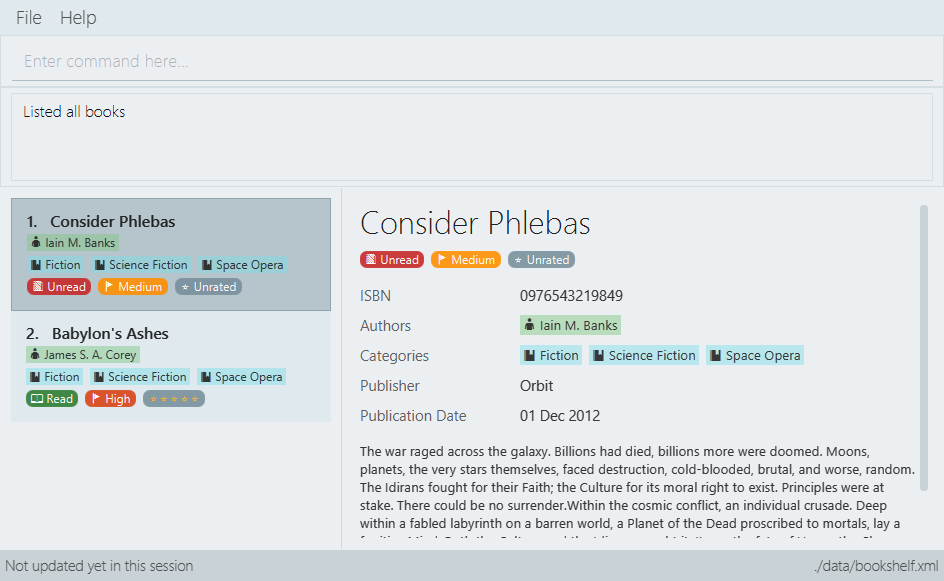
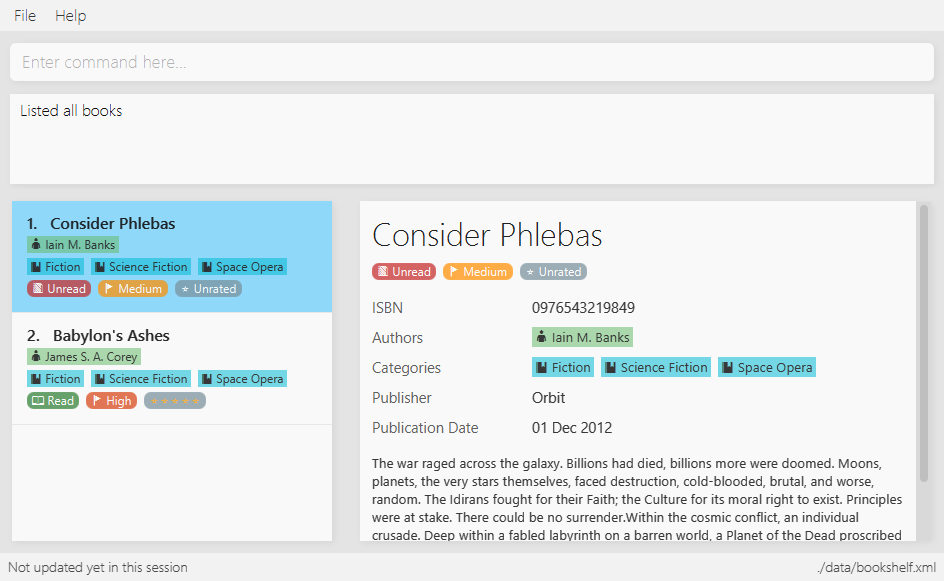
Rebuild pages at 4656d4637e82136c6475ff83124d207bad837bcf

diff --git a/UserGuide.html b/UserGuide.html
@@ -41,11 +41,12 @@
 <li><a href="#listing-entered-commands-code-history-code">3.13. Listing entered commands : <code>history</code></a></li>
 <li><a href="#undoing-previous-command-code-undo-code">3.14. Undoing previous command : <code>undo</code></a></li>
 <li><a href="#clearing-all-entries-code-clear-code">3.15. Clearing all entries : <code>clear</code></a></li>
-<li><a href="#changing-settings-code-settings-code-code-coming-in-v1-4-code">3.16. Changing settings: <code>settings</code> <code>[coming in v1.4]</code></a></li>
-<li><a href="#closing-the-program-code-exit-code">3.17. Closing the program : <code>exit</code></a></li>
-<li><a href="#saving-the-data">3.18. Saving the data</a></li>
-<li><a href="#getting-book-recommendations-code-suggest-code-code-coming-in-v2-0-code">3.19. Getting book recommendations: <code>suggest</code> <code>[coming in v2.0]</code></a></li>
-<li><a href="#importing-books-from-other-e-readers-code-import-code-code-coming-in-v2-0-code">3.20. Importing books from other E-Readers: <code>import</code> <code>[coming in v2.0]</code></a></li>
+<li><a href="#changing-application-theme-code-since-v1-2-code">3.16. Changing application theme <code>[since v1.2]</code></a></li>
+<li><a href="#changing-settings-code-settings-code-code-coming-in-v1-4-code">3.17. Changing settings: <code>settings</code> <code>[coming in v1.4]</code></a></li>
+<li><a href="#closing-the-program-code-exit-code">3.18. Closing the program : <code>exit</code></a></li>
+<li><a href="#saving-the-data">3.19. Saving the data</a></li>
+<li><a href="#getting-book-recommendations-code-suggest-code-code-coming-in-v2-0-code">3.20. Getting book recommendations: <code>suggest</code> <code>[coming in v2.0]</code></a></li>
+<li><a href="#importing-books-from-other-e-readers-code-import-code-code-coming-in-v2-0-code">3.21. Importing books from other E-Readers: <code>import</code> <code>[coming in v2.0]</code></a></li>
 </ul>
 </li>
 <li><a href="#faq">4. FAQ</a></li>
@@ -822,9 +823,30 @@ Format: <code>clear</code></p>
 </div>
 </div>
 <div class="sect2">
-<h3 id="changing-settings-code-settings-code-code-coming-in-v1-4-code"><a class="anchor" href="#changing-settings-code-settings-code-code-coming-in-v1-4-code"></a>3.16. Changing settings: <code>settings</code> <code>[coming in v1.4]</code></h3>
+<h3 id="changing-application-theme-code-since-v1-2-code"><a class="anchor" href="#changing-application-theme-code-since-v1-2-code"></a>3.16. Changing application theme <code>[since v1.2]</code></h3>
+<div class="paragraph">
+<p>If you don&#8217;t like the default theme used by Bibliotek, you can change it using <code>theme</code>.<br>
+Format: <code>theme THEME_NAME</code></p>
+</div>
+<div class="sidebarblock">
+<div class="content">
+<div class="ulist">
+<ul>
+<li>
+<p><code>THEME_NAME</code> must specify a valid theme, and is case-insensitive.</p>
+</li>
+<li>
+<p>The current available themes are: <code>white</code>, <code>light</code>, and <code>dark</code>.</p>
+</li>
+</ul>
+</div>
+</div>
+</div>
+</div>
+<div class="sect2">
+<h3 id="changing-settings-code-settings-code-code-coming-in-v1-4-code"><a class="anchor" href="#changing-settings-code-settings-code-code-coming-in-v1-4-code"></a>3.17. Changing settings: <code>settings</code> <code>[coming in v1.4]</code></h3>
 <div class="sect3">
-<h4 id="settings-library"><a class="anchor" href="#settings-library"></a>3.16.1. Library <code>[coming in v1.4]</code></h4>
+<h4 id="settings-library"><a class="anchor" href="#settings-library"></a>3.17.1. Library <code>[coming in v1.4]</code></h4>
 <div class="paragraph">
 <p>If you want to search for books in other libraries, you can change your settings.<br>
 Format: <code>settings lib/LIBRARY</code></p>
@@ -860,7 +882,7 @@ if there are other libraries you wish are supported.</p>
 </div>
 </div>
 <div class="sect3">
-<h4 id="settings-order"><a class="anchor" href="#settings-order"></a>3.16.2. Online shopping site <code>[coming in v1.5]</code></h4>
+<h4 id="settings-order"><a class="anchor" href="#settings-order"></a>3.17.2. Online shopping site <code>[coming in v1.5]</code></h4>
 <div class="paragraph">
 <p>If you want to purchase books on other online booksellers, you can change your settings.<br>
 Format: <code>settings order/SITE</code></p>
@@ -896,7 +918,7 @@ if there are other sites you wish are supported.</p>
 </div>
 </div>
 <div class="sect3">
-<h4 id="command-alias-code-coming-in-v1-5-code"><a class="anchor" href="#command-alias-code-coming-in-v1-5-code"></a>3.16.3. Command alias <code>[coming in v1.5]</code></h4>
+<h4 id="command-alias-code-coming-in-v1-5-code"><a class="anchor" href="#command-alias-code-coming-in-v1-5-code"></a>3.17.3. Command alias <code>[coming in v1.5]</code></h4>
 <div class="paragraph">
 <p>If you don&#8217;t like the word for a command or think it is too long, you can add a
 command alias to make the command more intuitive or reduce typing.<br>
@@ -948,15 +970,7 @@ Remove the command alias of <code>add</code>.</p>
 </div>
 </div>
 <div class="sect3">
-<h4 id="theme-code-coming-in-v2-0-code"><a class="anchor" href="#theme-code-coming-in-v2-0-code"></a>3.16.4. Theme <code>[coming in v2.0]</code></h4>
-<div class="paragraph">
-<p>Don&#8217;t like the default theme of the application? You can choose from the various
-themes that Bibliotek provides.<br>
-Format: <code>settings theme/THEME</code></p>
-</div>
-</div>
-<div class="sect3">
-<h4 id="font-size-code-coming-in-v2-0-code"><a class="anchor" href="#font-size-code-coming-in-v2-0-code"></a>3.16.5. Font size <code>[coming in v2.0]</code></h4>
+<h4 id="font-size-code-coming-in-v2-0-code"><a class="anchor" href="#font-size-code-coming-in-v2-0-code"></a>3.17.4. Font size <code>[coming in v2.0]</code></h4>
 <div class="paragraph">
 <p>Think the font size is too small or large for your liking? You can customize the
 font size to your own needs.<br>
@@ -964,7 +978,7 @@ Format: <code>settings fontsize/FONTSIZE</code></p>
 </div>
 </div>
 <div class="sect3">
-<h4 id="password-code-coming-in-v2-0-code"><a class="anchor" href="#password-code-coming-in-v2-0-code"></a>3.16.6. Password <code>[coming in v2.0]</code></h4>
+<h4 id="password-code-coming-in-v2-0-code"><a class="anchor" href="#password-code-coming-in-v2-0-code"></a>3.17.5. Password <code>[coming in v2.0]</code></h4>
 <div class="paragraph">
 <p>If you want to keep your data secure, you can opt to set a password for the application.<br>
 Format: <code>settings password/PASSWORD</code></p>
@@ -999,21 +1013,21 @@ Remove your password using <code>settings password/</code>
 </div>
 </div>
 <div class="sect2">
-<h3 id="closing-the-program-code-exit-code"><a class="anchor" href="#closing-the-program-code-exit-code"></a>3.17. Closing the program : <code>exit</code></h3>
+<h3 id="closing-the-program-code-exit-code"><a class="anchor" href="#closing-the-program-code-exit-code"></a>3.18. Closing the program : <code>exit</code></h3>
 <div class="paragraph">
 <p>Use <code>exit</code> to close the program.<br>
 Format: <code>exit</code></p>
 </div>
 </div>
 <div class="sect2">
-<h3 id="saving-the-data"><a class="anchor" href="#saving-the-data"></a>3.18. Saving the data</h3>
+<h3 id="saving-the-data"><a class="anchor" href="#saving-the-data"></a>3.19. Saving the data</h3>
 <div class="paragraph">
 <p>Bibliotek saves data in the hard disk automatically after any command that changes the data.<br>
 There is no need to save manually.</p>
 </div>
 </div>
 <div class="sect2">
-<h3 id="getting-book-recommendations-code-suggest-code-code-coming-in-v2-0-code"><a class="anchor" href="#getting-book-recommendations-code-suggest-code-code-coming-in-v2-0-code"></a>3.19. Getting book recommendations: <code>suggest</code> <code>[coming in v2.0]</code></h3>
+<h3 id="getting-book-recommendations-code-suggest-code-code-coming-in-v2-0-code"><a class="anchor" href="#getting-book-recommendations-code-suggest-code-code-coming-in-v2-0-code"></a>3.20. Getting book recommendations: <code>suggest</code> <code>[coming in v2.0]</code></h3>
 <div class="paragraph">
 <p>Having problems deciding what to read next? Bibliotek can give you book recommendations
 based on the books in your book shelf. Use <code>suggest</code> to obtain your personalized recommendations!<br>
@@ -1033,7 +1047,7 @@ Give appropriate ratings to books you have read to obtain recommendations that a
 </div>
 </div>
 <div class="sect2">
-<h3 id="importing-books-from-other-e-readers-code-import-code-code-coming-in-v2-0-code"><a class="anchor" href="#importing-books-from-other-e-readers-code-import-code-code-coming-in-v2-0-code"></a>3.20. Importing books from other E-Readers: <code>import</code> <code>[coming in v2.0]</code></h3>
+<h3 id="importing-books-from-other-e-readers-code-import-code-code-coming-in-v2-0-code"><a class="anchor" href="#importing-books-from-other-e-readers-code-import-code-code-coming-in-v2-0-code"></a>3.21. Importing books from other E-Readers: <code>import</code> <code>[coming in v2.0]</code></h3>
 <div class="paragraph">
 <p>If you are using other E-Readers and have many books in your collection that you wish to
 add into your Bibliotek book shelf, <code>import</code> is the command you are looking for.<br>
@@ -1094,6 +1108,9 @@ e.g. <code>search t/Babylon&#8217;s Ashes c/Science Fiction</code></p>
 <p><strong>Select</strong> : <code>select INDEX</code><br></p>
 </li>
 <li>
+<p><strong>Theme</strong> : <code>theme THEME_NAME</code><br></p>
+</li>
+<li>
 <p><strong>Undo</strong> : <code>undo</code></p>
 </li>
 </ul>
@@ -1103,7 +1120,7 @@ e.g. <code>search t/Babylon&#8217;s Ashes c/Science Fiction</code></p>
 </div>
 <div id="footer">
 <div id="footer-text">
-Last updated 2018-03-19 13:49:57 UTC
+Last updated 2018-03-19 16:05:11 UTC
 </div>
 </div>
 </body>

diff --git a/UsingCoveralls.html b/UsingCoveralls.html
@@ -115,7 +115,7 @@ If you have not set up Travis CI, see <a href="UsingTravis.html">UsingTravis.ado
 </div>
 <div id="footer">
 <div id="footer-text">
-Last updated 2018-03-19 13:49:57 UTC
+Last updated 2018-03-19 16:05:11 UTC
 </div>
 </div>
 </body>

diff --git a/UsingGradle.html b/UsingGradle.html
@@ -261,7 +261,7 @@ See <code>build.gradle</code> &#8594; <code>allprojects</code> &#8594; <code>dep
 </div>
 <div id="footer">
 <div id="footer-text">
-Last updated 2018-03-19 13:49:57 UTC
+Last updated 2018-03-19 16:05:11 UTC
 </div>
 </div>
 </body>

diff --git a/UsingNetlify.html b/UsingNetlify.html
@@ -142,7 +142,7 @@ The publish directory is the directory in which the built HTML documentation res
 </div>
 <div id="footer">
 <div id="footer-text">
-Last updated 2018-03-19 13:49:57 UTC
+Last updated 2018-03-19 16:05:11 UTC
 </div>
 </div>
 </body>

diff --git a/team/johndoe.html b/team/johndoe.html
@@ -478,7 +478,7 @@ If the <code>redoStack</code> is empty, then there are no other commands left to
 </div>
 <div id="footer">
 <div id="footer-text">
-Last updated 2018-03-19 13:49:57 UTC
+Last updated 2018-03-19 16:05:11 UTC
 </div>
 </div>
 </body>

diff --git a/UsingTravis.html b/UsingTravis.html
@@ -299,7 +299,7 @@ Suggested change: Remove the codacy badge from <code>README</code>.</p>
 </div>
 <div id="footer">
 <div id="footer-text">
-Last updated 2018-03-19 13:49:57 UTC
+Last updated 2018-03-19 16:05:11 UTC
 </div>
 </div>
 </body>

diff --git a/UsingCheckstyle.html b/UsingCheckstyle.html
@@ -103,7 +103,7 @@ Restart the IDE to complete the installation.</p>
 </div>
 <div id="footer">
 <div id="footer-text">
-Last updated 2018-03-19 13:49:57 UTC
+Last updated 2018-03-19 16:05:11 UTC
 </div>
 </div>
 </body>

diff --git a/DeveloperGuide.html b/DeveloperGuide.html
@@ -2690,7 +2690,7 @@ Expected: Similar to previous.</p>
 </div>
 <div id="footer">
 <div id="footer-text">
-Last updated 2018-03-19 13:49:57 UTC
+Last updated 2018-03-19 16:05:11 UTC
 </div>
 </div>
 </body>

diff --git a/TestDocument.html b/TestDocument.html
@@ -178,7 +178,7 @@ This should be on a new line.</p>
 </div>
 <div id="footer">
 <div id="footer-text">
-Last updated 2018-03-19 13:49:57 UTC
+Last updated 2018-03-19 16:05:11 UTC
 </div>
 </div>
 </body>

diff --git a/AboutUs.html b/AboutUs.html
@@ -98,7 +98,7 @@ Responsibilities: UI</p>
 </div>
 <div id="footer">
 <div id="footer-text">
-Last updated 2018-03-19 13:49:57 UTC
+Last updated 2018-03-19 16:05:11 UTC
 </div>
 </div>
 </body>

diff --git a/UsingAppVeyor.html b/UsingAppVeyor.html
@@ -174,7 +174,7 @@ grant access:</p>
 </div>
 <div id="footer">
 <div id="footer-text">
-Last updated 2018-03-19 13:49:57 UTC
+Last updated 2018-03-19 16:05:11 UTC
 </div>
 </div>
 </body>

diff --git a/index.html b/index.html
@@ -112,7 +112,7 @@
 </div>
 <div id="footer">
 <div id="footer-text">
-Last updated 2018-03-19 13:49:57 UTC
+Last updated 2018-03-19 16:05:11 UTC
 </div>
 </div>
 </body>
